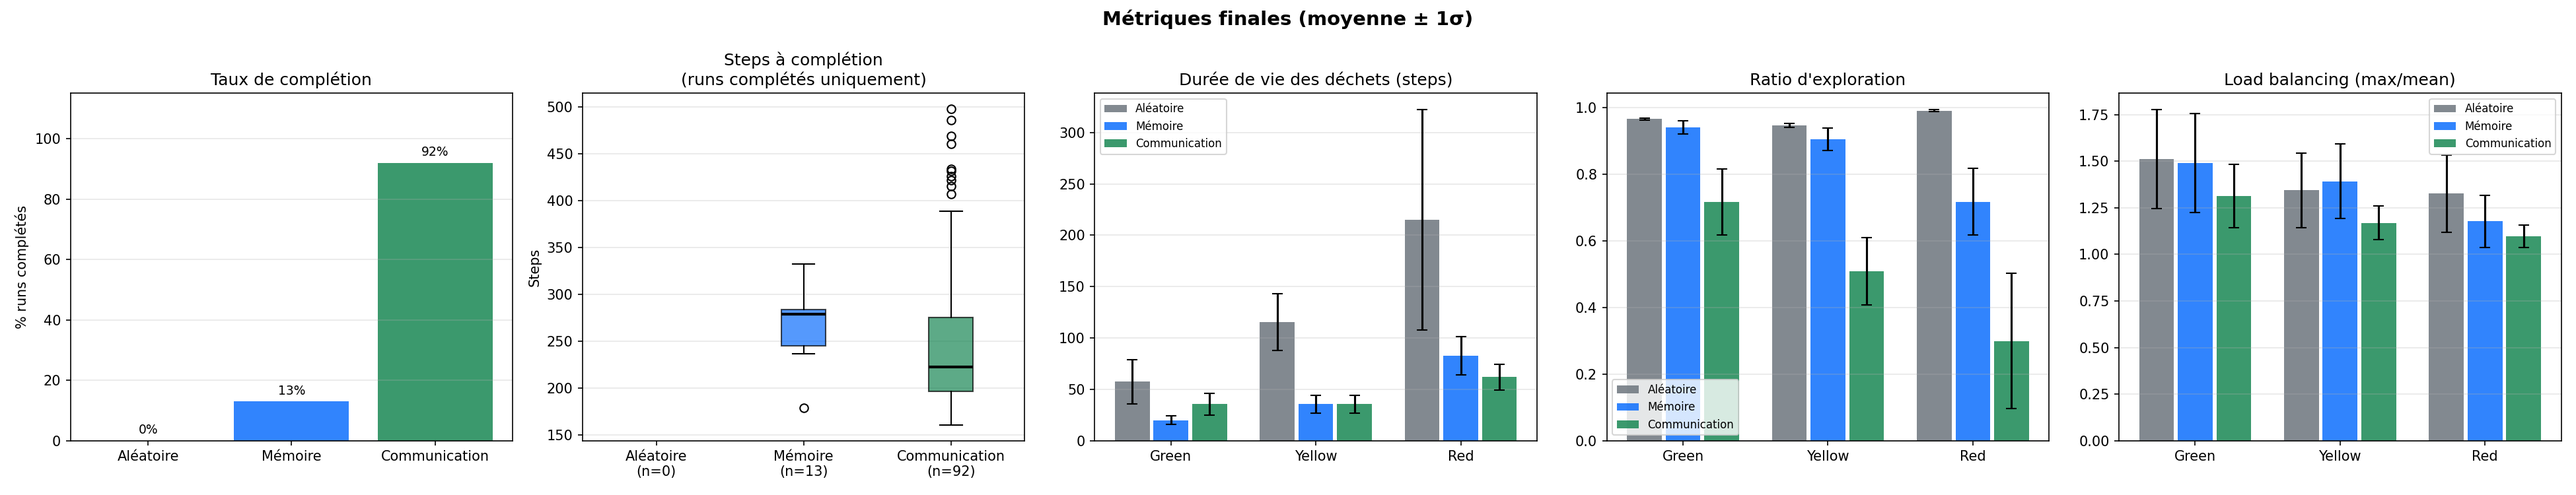
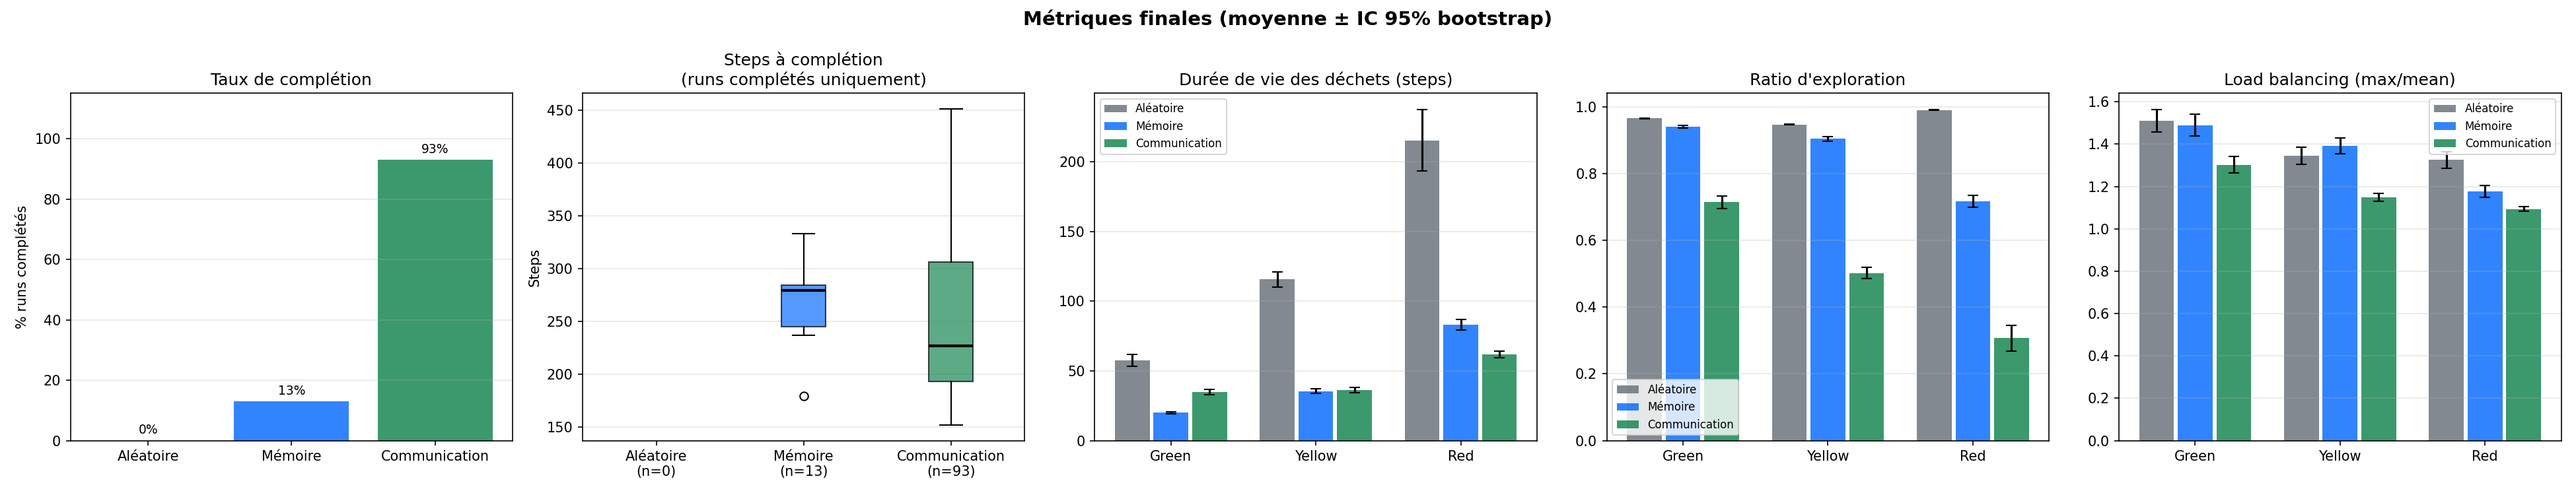
[Feat] Improve metric and add confidence interval

diff --git a/group1_robot_mission_MAS2026/benchmark.py b/group1_robot_mission_MAS2026/benchmark.py
@@ -25,7 +25,31 @@ def _worker_init():
         sys.path.insert(0, _DIR)
 
 
-# ── scenario definitions (matches comparison_server.py) ──────────────────────
+def bootstrap_ci(
+    data: list[float], n_bootstrap: int = 1000, ci: int = 95
+) -> tuple[float, float]:
+    """Calculate bootstrap confidence interval for the mean."""
+    data = np.asarray(data)
+    n = len(data)
+    means = np.mean(np.random.choice(data, size=(n_bootstrap, n), replace=True), axis=1)
+    lower = np.percentile(means, (100 - ci) / 2)
+    upper = np.percentile(means, 100 - (100 - ci) / 2)
+    return lower, upper
+
+
+def bootstrap_ci_timeseries(
+    mat: np.ndarray, n_bootstrap: int = 1000, ci: int = 95
+) -> tuple[np.ndarray, np.ndarray]:
+    """Calculate bootstrap confidence interval for each timestep of a (n_seeds, max_step) matrix."""
+    n, T = mat.shape
+    idx = np.random.randint(0, n, size=(n_bootstrap, n))
+    boot_means = mat[idx].mean(axis=1)  # (n_bootstrap, T)
+    lower = np.percentile(boot_means, (100 - ci) / 2, axis=0)
+    upper = np.percentile(boot_means, 100 - (100 - ci) / 2, axis=0)
+    return lower, upper
+
+
+# ── scenario definitions ──────────────────────────────────────────────────────
 SCENARIOS = ["random", "memory", "communication"]
 LABELS = {
     "random": "Aléatoire",
@@ -46,10 +70,16 @@ def run_single(args: tuple) -> dict:
     from model import DEFAULT_PARAMS, RobotMissionModel
     from utils import Color
 
-    params = {**DEFAULT_PARAMS, "robots_behavior": scenario, "seed": seed, "max_step": max_step}
+    params = {
+        **DEFAULT_PARAMS,
+        "robots_behavior": scenario,
+        "seed": seed,
+        "max_step": max_step,
+    }
     params.update(params_override)
 
     import types
+
     model = RobotMissionModel(**params)
     if scenario == "memory":
         for agent in model.agents:
@@ -70,6 +100,7 @@ def run_single(args: tuple) -> dict:
         return arr + [arr[-1]] * (max_step - len(arr))
 
     from agents import GreenRobot, RedRobot, YellowRobot
+
     all_robots = (
         list(model.agents_by_type[GreenRobot])
         + list(model.agents_by_type[YellowRobot])
@@ -82,16 +113,23 @@ def run_single(args: tuple) -> dict:
         "seed": seed,
         "steps": n,
         "completed": completed,
-        # time series (padded to max_step)
         "ratio_collected": pad("Ratio collecté"),
         "deposited": pad("Déposés"),
         "green_wastes": pad("Déchets verts"),
         "yellow_wastes": pad("Déchets jaunes"),
         "red_wastes": pad("Déchets rouges"),
-        # final scalar metrics per color
-        "lifespan": {c: df["Durée de vie des déchets"].iloc[-1].get(c, 0) for c in [Color.GREEN, Color.YELLOW, Color.RED]},
-        "exploration": {c: df["Ratio d'exploration"].iloc[-1].get(c, 0) for c in [Color.GREEN, Color.YELLOW, Color.RED]},
-        "load_balance": {c: df["Load balancing"].iloc[-1].get(c, 0) for c in [Color.GREEN, Color.YELLOW, Color.RED]},
+        "lifespan": {
+            c: df["Durée de vie des déchets"].iloc[-1].get(c, 0)
+            for c in [Color.GREEN, Color.YELLOW, Color.RED]
+        },
+        "exploration": {
+            c: df["Ratio d'exploration"].iloc[-1].get(c, 0)
+            for c in [Color.GREEN, Color.YELLOW, Color.RED]
+        },
+        "load_balance": {
+            c: df["Load balancing"].iloc[-1].get(c, 0)
+            for c in [Color.GREEN, Color.YELLOW, Color.RED]
+        },
     }
 
 
@@ -101,24 +139,30 @@ def aggregate(results: list[dict], scenario: str) -> dict:
 
     def ts_stats(key):
         mat = np.array([r[key] for r in runs])  # (n_seeds, max_step)
-        return mat.mean(axis=0), mat.std(axis=0)
+        mean = mat.mean(axis=0)
+        ci_low, ci_high = bootstrap_ci_timeseries(mat)
+        return mean, ci_low, ci_high
 
     def color_stats(key):
         from utils import Color
+
         colors = [Color.GREEN, Color.YELLOW, Color.RED]
-        means, stds = {}, {}
+        means, ci_lows, ci_highs = {}, {}, {}
         for c in colors:
-            vals = np.array([r[key][c] for r in runs])
-            means[c], stds[c] = vals.mean(), vals.std()
-        return means, stds
+            vals = [r[key][c] for r in runs]
+            means[c] = np.mean(vals)
+            ci_lows[c], ci_highs[c] = bootstrap_ci(vals)
+        return means, ci_lows, ci_highs
 
     completed_runs = [r for r in runs if r["completed"]]
     steps_completed = [r["steps"] for r in completed_runs]
+    steps_all = [r["steps"] for r in runs]
+    steps_ci_low, steps_ci_high = bootstrap_ci(steps_all)
 
     return {
-        "steps_mean": np.mean([r["steps"] for r in runs]),
-        "steps_std": np.std([r["steps"] for r in runs]),
-        "steps_all": [r["steps"] for r in runs],
+        "steps_mean": np.mean(steps_all),
+        "steps_ci": (steps_ci_low, steps_ci_high),
+        "steps_all": steps_all,
         "completion_rate": len(completed_runs) / len(runs) if runs else 0.0,
         "steps_completed": steps_completed,
         "ratio_collected": ts_stats("ratio_collected"),
@@ -133,15 +177,13 @@ def aggregate(results: list[dict], scenario: str) -> dict:
 
 
 # ── plotting ──────────────────────────────────────────────────────────────────
-COLOR_NAMES = None  # lazily set after import
-
-
 def _color_label(c) -> str:
     return c.value.capitalize()
 
 
 def plot_results(aggs: dict, max_step: int, output_dir: str):
     from utils import Color
+
     waste_colors = [Color.GREEN, Color.YELLOW, Color.RED]
     waste_hex = {Color.GREEN: "#28a745", Color.YELLOW: "#ffc107", Color.RED: "#dc3545"}
 
@@ -149,21 +191,25 @@ def plot_results(aggs: dict, max_step: int, output_dir: str):
 
     # ── Figure 1: time series ─────────────────────────────────────────────────
     fig1, axes1 = plt.subplots(2, 2, figsize=(14, 10))
-    fig1.suptitle("Évolution temporelle (moyenne ± 1σ)", fontsize=14, fontweight="bold")
+    fig1.suptitle(
+        "Évolution temporelle (moyenne ± IC 95% bootstrap)",
+        fontsize=14,
+        fontweight="bold",
+    )
 
     ts_metrics = [
-        ("ratio_collected", "Ratio collecté",          axes1[0, 0]),
-        ("green_wastes",    "Déchets verts restants",  axes1[0, 1]),
-        ("yellow_wastes",   "Déchets jaunes restants", axes1[1, 0]),
-        ("red_wastes",      "Déchets rouges restants", axes1[1, 1]),
+        ("ratio_collected", "Ratio collecté", axes1[0, 0]),
+        ("green_wastes", "Déchets verts restants", axes1[0, 1]),
+        ("yellow_wastes", "Déchets jaunes restants", axes1[1, 0]),
+        ("red_wastes", "Déchets rouges restants", axes1[1, 1]),
     ]
 
     for key, title, ax in ts_metrics:
         for scen in SCENARIOS:
-            mean, std = aggs[scen][key]
+            mean, ci_low, ci_high = aggs[scen][key]
             c = COLORS_SCEN[scen]
             ax.plot(steps_x, mean, color=c, label=LABELS[scen], linewidth=1.8)
-            ax.fill_between(steps_x, mean - std, mean + std, color=c, alpha=0.15)
+            ax.fill_between(steps_x, ci_low, ci_high, color=c, alpha=0.15)
         ax.set_title(title)
         ax.set_xlabel("Step")
         ax.legend(fontsize=8)
@@ -173,16 +219,20 @@ def plot_results(aggs: dict, max_step: int, output_dir: str):
     fig1.savefig(os.path.join(output_dir, "benchmark_timeseries.png"), dpi=150)
     print("Saved benchmark_timeseries.png")
 
-    # ── Figure 2: final scalar metrics per color + completion + steps boxplot ──
+    # ── Figure 2: final scalar metrics ───────────────────────────────────────
     fig2, axes2 = plt.subplots(1, 5, figsize=(26, 5))
-    fig2.suptitle("Métriques finales (moyenne ± 1σ)", fontsize=14, fontweight="bold")
+    fig2.suptitle(
+        "Métriques finales (moyenne ± IC 95% bootstrap)", fontsize=14, fontweight="bold"
+    )
 
     # Completion rate
     ax_compl = axes2[0]
     rates = [aggs[s]["completion_rate"] * 100 for s in SCENARIOS]
     bars = ax_compl.bar(
-        [LABELS[s] for s in SCENARIOS], rates,
-        color=[COLORS_SCEN[s] for s in SCENARIOS], alpha=0.85,
+        [LABELS[s] for s in SCENARIOS],
+        rates,
+        color=[COLORS_SCEN[s] for s in SCENARIOS],
+        alpha=0.85,
     )
     ax_compl.bar_label(bars, fmt="%.0f%%", padding=3, fontsize=9)
     ax_compl.set_ylim(0, 115)
@@ -198,7 +248,7 @@ def plot_results(aggs: dict, max_step: int, output_dir: str):
     ]
     bp = ax_steps.boxplot(
         [d if d else [float("nan")] for d in data_completed],
-        labels=labels_with_n,
+        tick_labels=labels_with_n,
         patch_artist=True,
         medianprops=dict(color="black", linewidth=2),
     )
@@ -210,9 +260,9 @@ def plot_results(aggs: dict, max_step: int, output_dir: str):
     ax_steps.grid(True, alpha=0.3, axis="y")
 
     scalar_metrics = [
-        ("lifespan",     "Durée de vie des déchets (steps)", axes2[2]),
-        ("exploration",  "Ratio d'exploration",              axes2[3]),
-        ("load_balance", "Load balancing (max/mean)",        axes2[4]),
+        ("lifespan", "Durée de vie des déchets (steps)", axes2[2]),
+        ("exploration", "Ratio d'exploration", axes2[3]),
+        ("load_balance", "Load balancing (max/mean)", axes2[4]),
     ]
 
     n_scen = len(SCENARIOS)
@@ -223,12 +273,21 @@ def plot_results(aggs: dict, max_step: int, output_dir: str):
 
     for key, title, ax in scalar_metrics:
         for i, scen in enumerate(SCENARIOS):
-            means, stds = aggs[scen][key]
-            vals = [means[c] for c in waste_colors]
-            errs = [stds[c] for c in waste_colors]
+            means, ci_lows, ci_highs = aggs[scen][key]
+            vals = np.array([means[c] for c in waste_colors])
+            errs_low = np.array([means[c] - ci_lows[c] for c in waste_colors])
+            errs_high = np.array([ci_highs[c] - means[c] for c in waste_colors])
             offsets = x + (i - n_scen / 2 + 0.5) * bar_width
-            ax.bar(offsets, vals, bar_width * 0.9, yerr=errs, label=LABELS[scen],
-                   color=COLORS_SCEN[scen], alpha=0.85, capsize=4)
+            ax.bar(
+                offsets,
+                vals,
+                bar_width * 0.9,
+                yerr=[errs_low, errs_high],
+                label=LABELS[scen],
+                color=COLORS_SCEN[scen],
+                alpha=0.85,
+                capsize=4,
+            )
         ax.set_title(title)
         ax.set_xticks(x)
         ax.set_xticklabels([_color_label(c) for c in waste_colors])
@@ -245,24 +304,41 @@ def plot_results(aggs: dict, max_step: int, output_dir: str):
 # ── main ──────────────────────────────────────────────────────────────────────
 def main():
     parser = argparse.ArgumentParser(description="Multi-seed scenario benchmark")
-    parser.add_argument("--seeds", type=int, default=20, help="Number of seeds (default: 20)")
-    parser.add_argument("--max-step", type=int, default=200, help="Max steps per run (default: 200)")
-    parser.add_argument("--workers", type=int, default=None, help="Parallel workers (default: CPU count)")
-    parser.add_argument("--output-dir", type=str, default=os.path.join(_DIR, "figures"), help="Output directory for figures")
+    parser.add_argument(
+        "--seeds", type=int, default=20, help="Number of seeds (default: 20)"
+    )
+    parser.add_argument(
+        "--max-step", type=int, default=200, help="Max steps per run (default: 200)"
+    )
+    parser.add_argument(
+        "--workers",
+        type=int,
+        default=None,
+        help="Parallel workers (default: CPU count)",
+    )
+    parser.add_argument(
+        "--output-dir",
+        type=str,
+        default=os.path.join(_DIR, "figures"),
+        help="Output directory for figures",
+    )
     args = parser.parse_args()
 
-    #seeds = list(range(args.seeds,args.seeds+1))
     seeds = list(range(args.seeds))
     tasks = [(scen, seed, args.max_step, {}) for scen in SCENARIOS for seed in seeds]
     total = len(tasks)
 
     os.makedirs(args.output_dir, exist_ok=True)
 
-    print(f"Running {total} simulations ({len(SCENARIOS)} scenarios × {len(seeds)} seeds) ...")
+    print(
+        f"Running {total} simulations ({len(SCENARIOS)} scenarios × {args.seeds} seeds) ..."
+    )
 
     results = []
     errors = []
-    with ProcessPoolExecutor(max_workers=args.workers, initializer=_worker_init) as pool:
+    with ProcessPoolExecutor(
+        max_workers=args.workers, initializer=_worker_init
+    ) as pool:
         futures = {pool.submit(run_single, task): task for task in tasks}
         with tqdm(total=total, desc="Simulations", unit="run") as pbar:
             for fut in as_completed(futures):
@@ -280,11 +356,14 @@ def main():
     print("Aggregating and plotting ...")
     aggs = {scen: aggregate(results, scen) for scen in SCENARIOS}
 
-    header = f"{'Scenario':<16} {'Avg steps':>10} {'Std steps':>10} {'Final ratio':>12}"
+    header = f"{'Scenario':<16} {'Avg steps':>10} {'CI95 low':>10} {'CI95 high':>10} {'Final ratio':>12}"
     print(f"\n{header}\n{'-' * len(header)}")
     for scen in SCENARIOS:
         a = aggs[scen]
-        print(f"{LABELS[scen]:<16} {a['steps_mean']:>10.1f} {a['steps_std']:>10.1f} {aggs[scen]['ratio_collected'][0][-1]:>12.3f}")
+        ci_low, ci_high = a["steps_ci"]
+        print(
+            f"{LABELS[scen]:<16} {a['steps_mean']:>10.1f} {ci_low:>10.1f} {ci_high:>10.1f} {a['ratio_collected'][0][-1]:>12.3f}"
+        )
 
     plot_results(aggs, args.max_step, args.output_dir)
 
